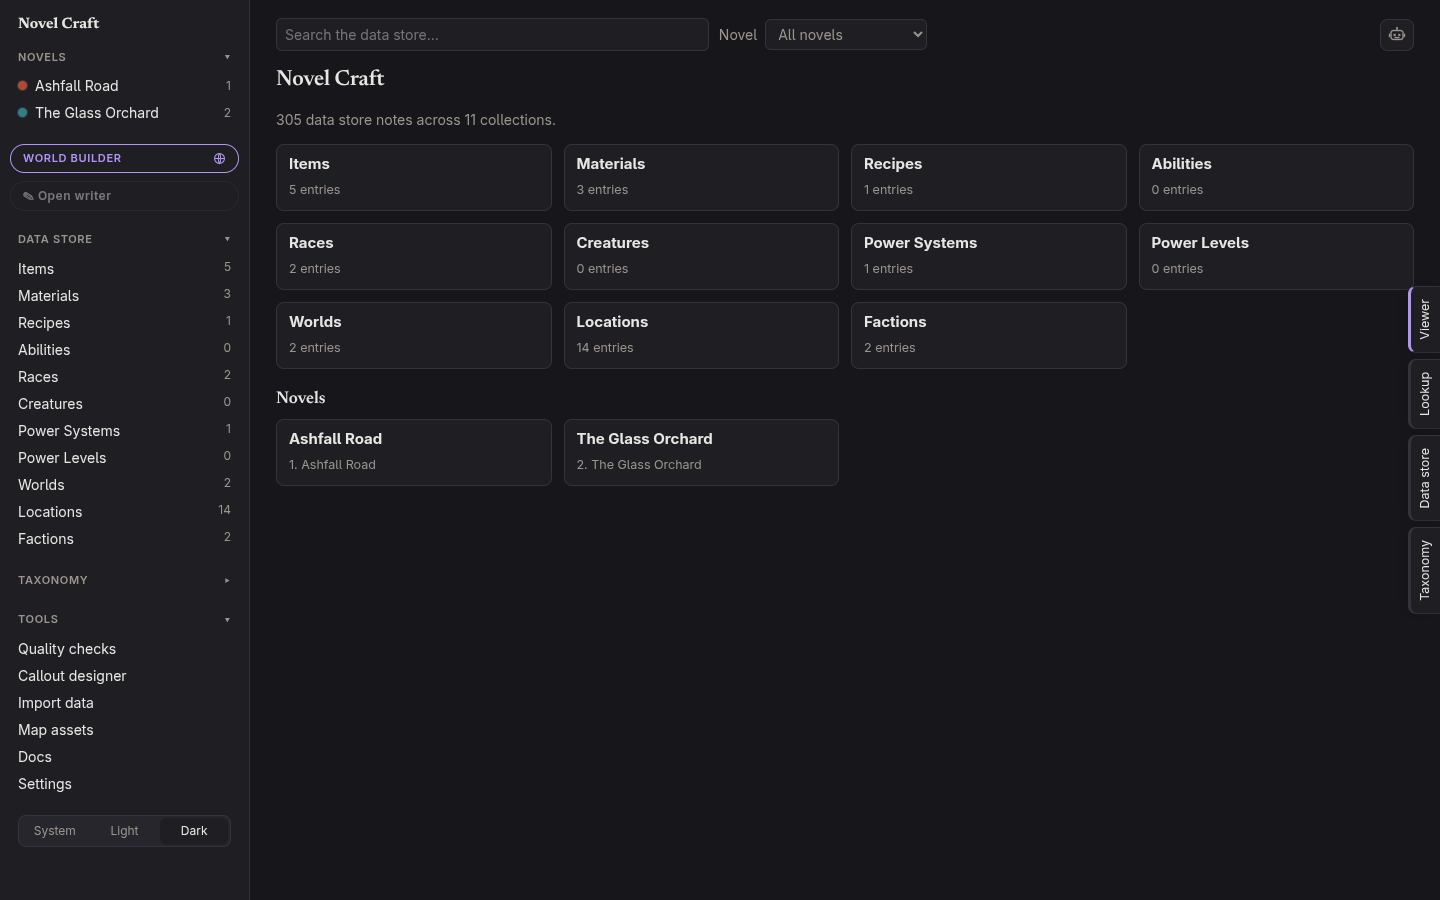
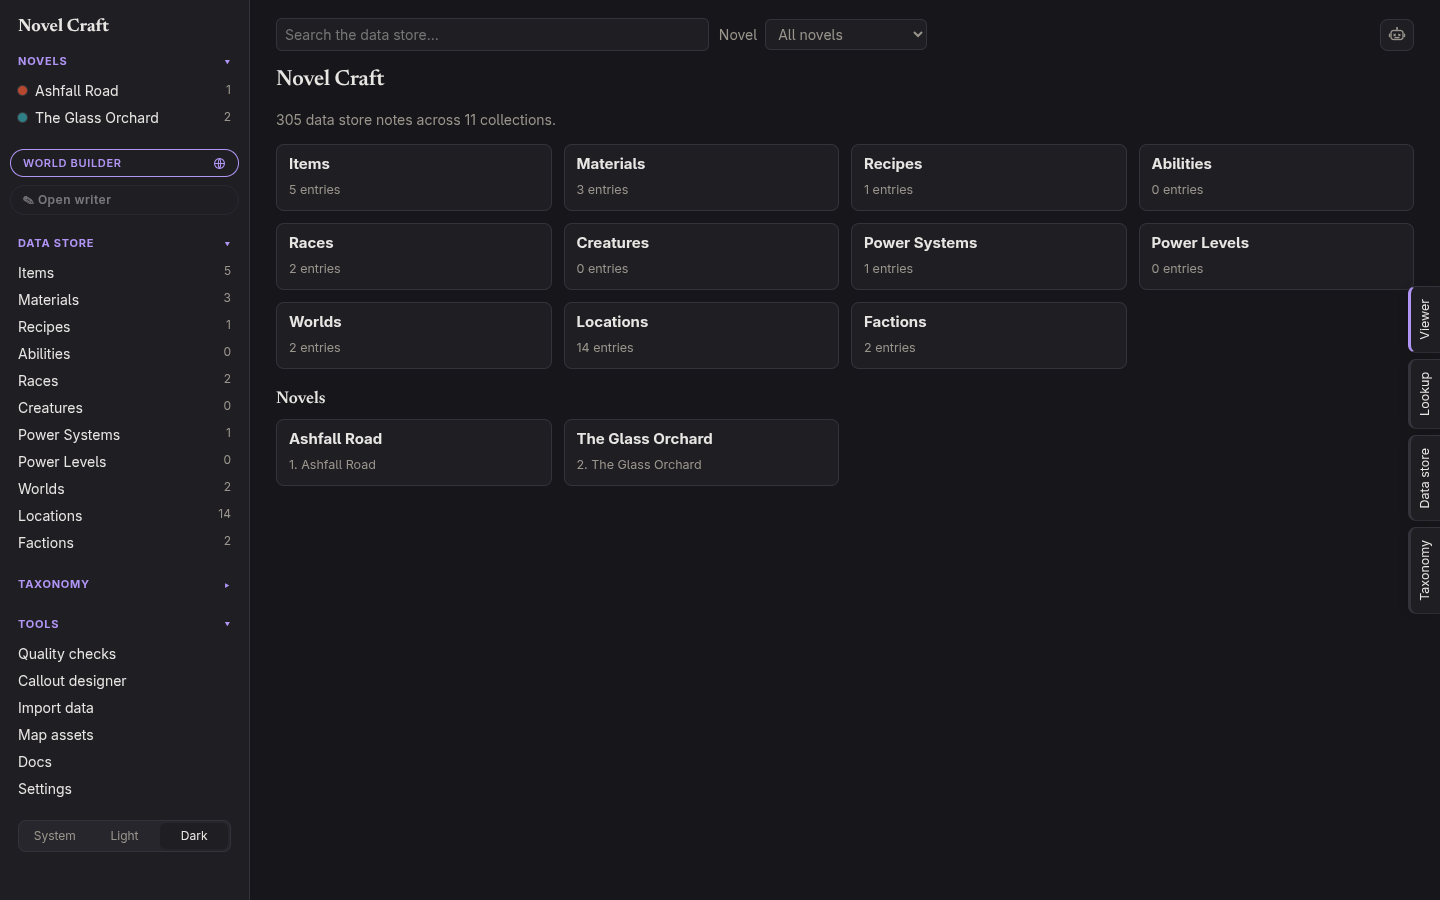
Sidebar: larger title, section headings in the app colour

diff --git a/public/style.css b/public/style.css
@@ -7,7 +7,7 @@
    forces light or dark, otherwise the OS setting decides. */
 :root {
     --bg: #f7f6f3; --panel: #ffffff; --panel-2: #f0eee9; --text: #23211d; --muted: #6f6a60; --line: #e2dfd8;
-    --accent: var(--novel-accent, var(--app-accent, #6a4fc4)); --on-accent: #ffffff;
+    --accent: var(--novel-accent, var(--app-accent, #6a4fc4)); --on-accent: #ffffff; --app-accent-now: var(--app-accent, #6a4fc4);
     --ok: #2f7d4f; --warn: #a65b00; --bad: #b3261e;
     --chip: #ece9e2; --radius: 8px; --mono: ui-monospace, "JetBrains Mono", Menlo, monospace;
     --serif: "Newsreader", "Iowan Old Style", Georgia, serif;
@@ -18,7 +18,7 @@
 @media (prefers-color-scheme: dark) {
     :root:not([data-theme="light"]) {
         --bg: #17161a; --panel: #1f1e23; --panel-2: #27262c; --text: #e8e6e3; --muted: #9a958c; --line: #34323a;
-        --accent: var(--novel-accent-dark, var(--app-accent-dark, #b195f5)); --on-accent: #17161a;
+        --accent: var(--novel-accent-dark, var(--app-accent-dark, #b195f5)); --on-accent: #17161a; --app-accent-now: var(--app-accent-dark, #b195f5);
         --ok: #6cc28f; --warn: #e2a24b; --bad: #f08a80; --chip: #2d2c33;
         --accent-soft: color-mix(in srgb, var(--accent) 16%, var(--panel));
         --speech: var(--speech-dark); --speech-em: var(--speech-em-dark); --speech-strong: var(--speech-strong-dark); --speech-strong-em: var(--speech-strong-em-dark); --speech-single: var(--speech-single-dark);
@@ -27,7 +27,7 @@
 }
 :root[data-theme="dark"] {
     --bg: #17161a; --panel: #1f1e23; --panel-2: #27262c; --text: #e8e6e3; --muted: #9a958c; --line: #34323a;
-    --accent: var(--novel-accent-dark, var(--app-accent-dark, #b195f5)); --on-accent: #17161a;
+    --accent: var(--novel-accent-dark, var(--app-accent-dark, #b195f5)); --on-accent: #17161a; --app-accent-now: var(--app-accent-dark, #b195f5);
     --ok: #6cc28f; --warn: #e2a24b; --bad: #f08a80; --chip: #2d2c33;
     --accent-soft: color-mix(in srgb, var(--accent) 16%, var(--panel));
     --speech: var(--speech-dark); --speech-em: var(--speech-em-dark); --speech-strong: var(--speech-strong-dark); --speech-strong-em: var(--speech-strong-em-dark); --speech-single: var(--speech-single-dark);
@@ -54,12 +54,13 @@ button:disabled { opacity: .5; cursor: default; }
 
 .layout { display: grid; grid-template-columns: 250px 1fr; min-height: 100vh; }
 .sidebar { background: var(--panel); border-right: 1px solid var(--line); padding: 14px 10px; position: sticky; top: 0; height: 100vh; overflow-y: auto; }
-.sidebar .brand { font-weight: 700; font-size: 15px; padding: 0 8px 10px; }
+.sidebar .brand { font-weight: 700; font-size: 18px; padding: 0 8px 10px; }
 .sidebar h4 { margin: 0; }
 .sidebar .side-section + .side-section { margin-top: 18px; }
 .sidebar .side-head { all: unset; box-sizing: border-box; width: 100%; display: flex; justify-content: space-between; align-items: center; cursor: pointer;
-    color: var(--muted); font-size: 11px; font-weight: 600; text-transform: uppercase; letter-spacing: .06em; padding: 4px 8px; border-radius: 6px; }
-.sidebar .side-head:hover { color: var(--text); background: var(--panel-2); }
+    color: var(--app-accent-now); font-size: 11px; font-weight: 700; text-transform: uppercase; letter-spacing: .07em; padding: 4px 8px; border-radius: 6px; }
+/* section headings in the app's colour (not a novel's), so they stand out from the links under them on every page */
+.sidebar .side-head:hover { color: var(--app-accent-now); background: var(--panel-2); }
 .sidebar .side-head:focus-visible { outline: 2px solid var(--accent); outline-offset: 1px; }
 .sidebar .side-head .caret { font-size: 10px; transition: transform .15s; }
 .sidebar .side-section.open .caret { transform: rotate(90deg); }
